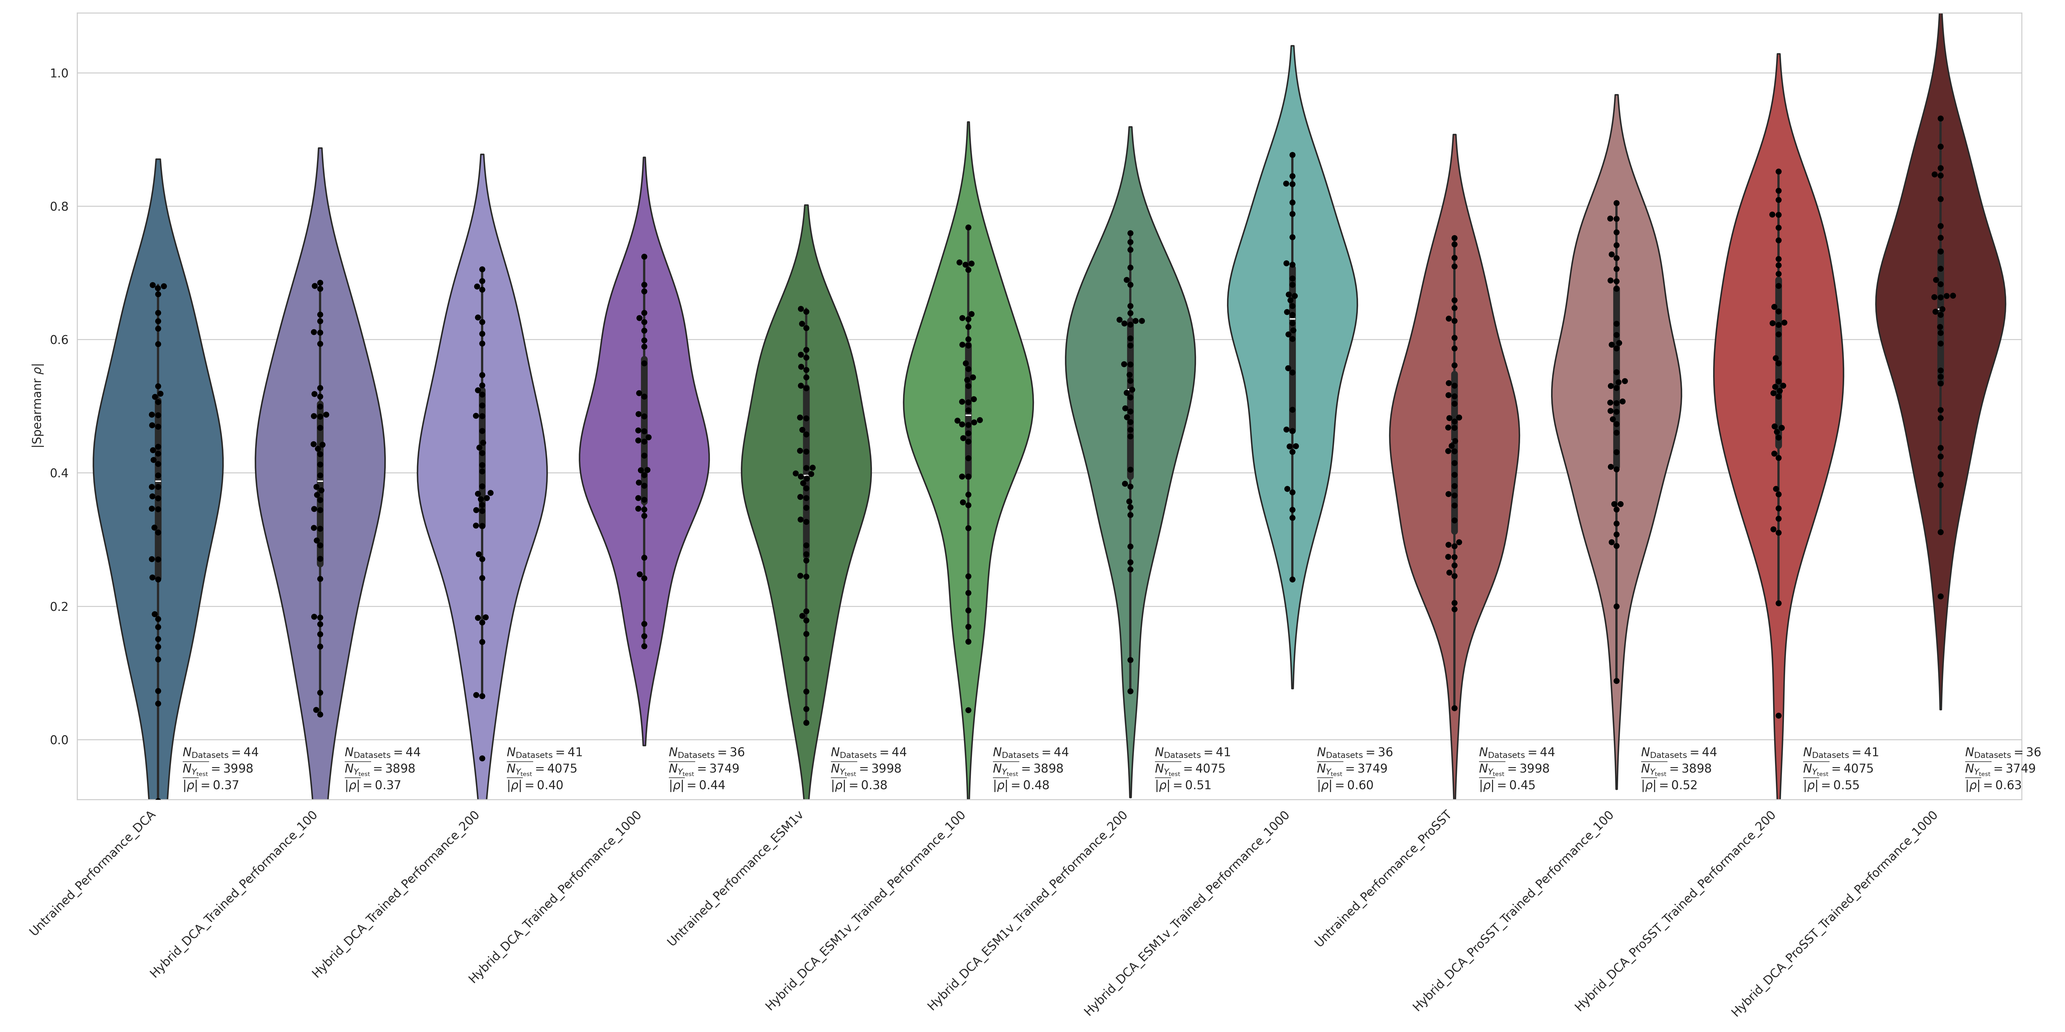
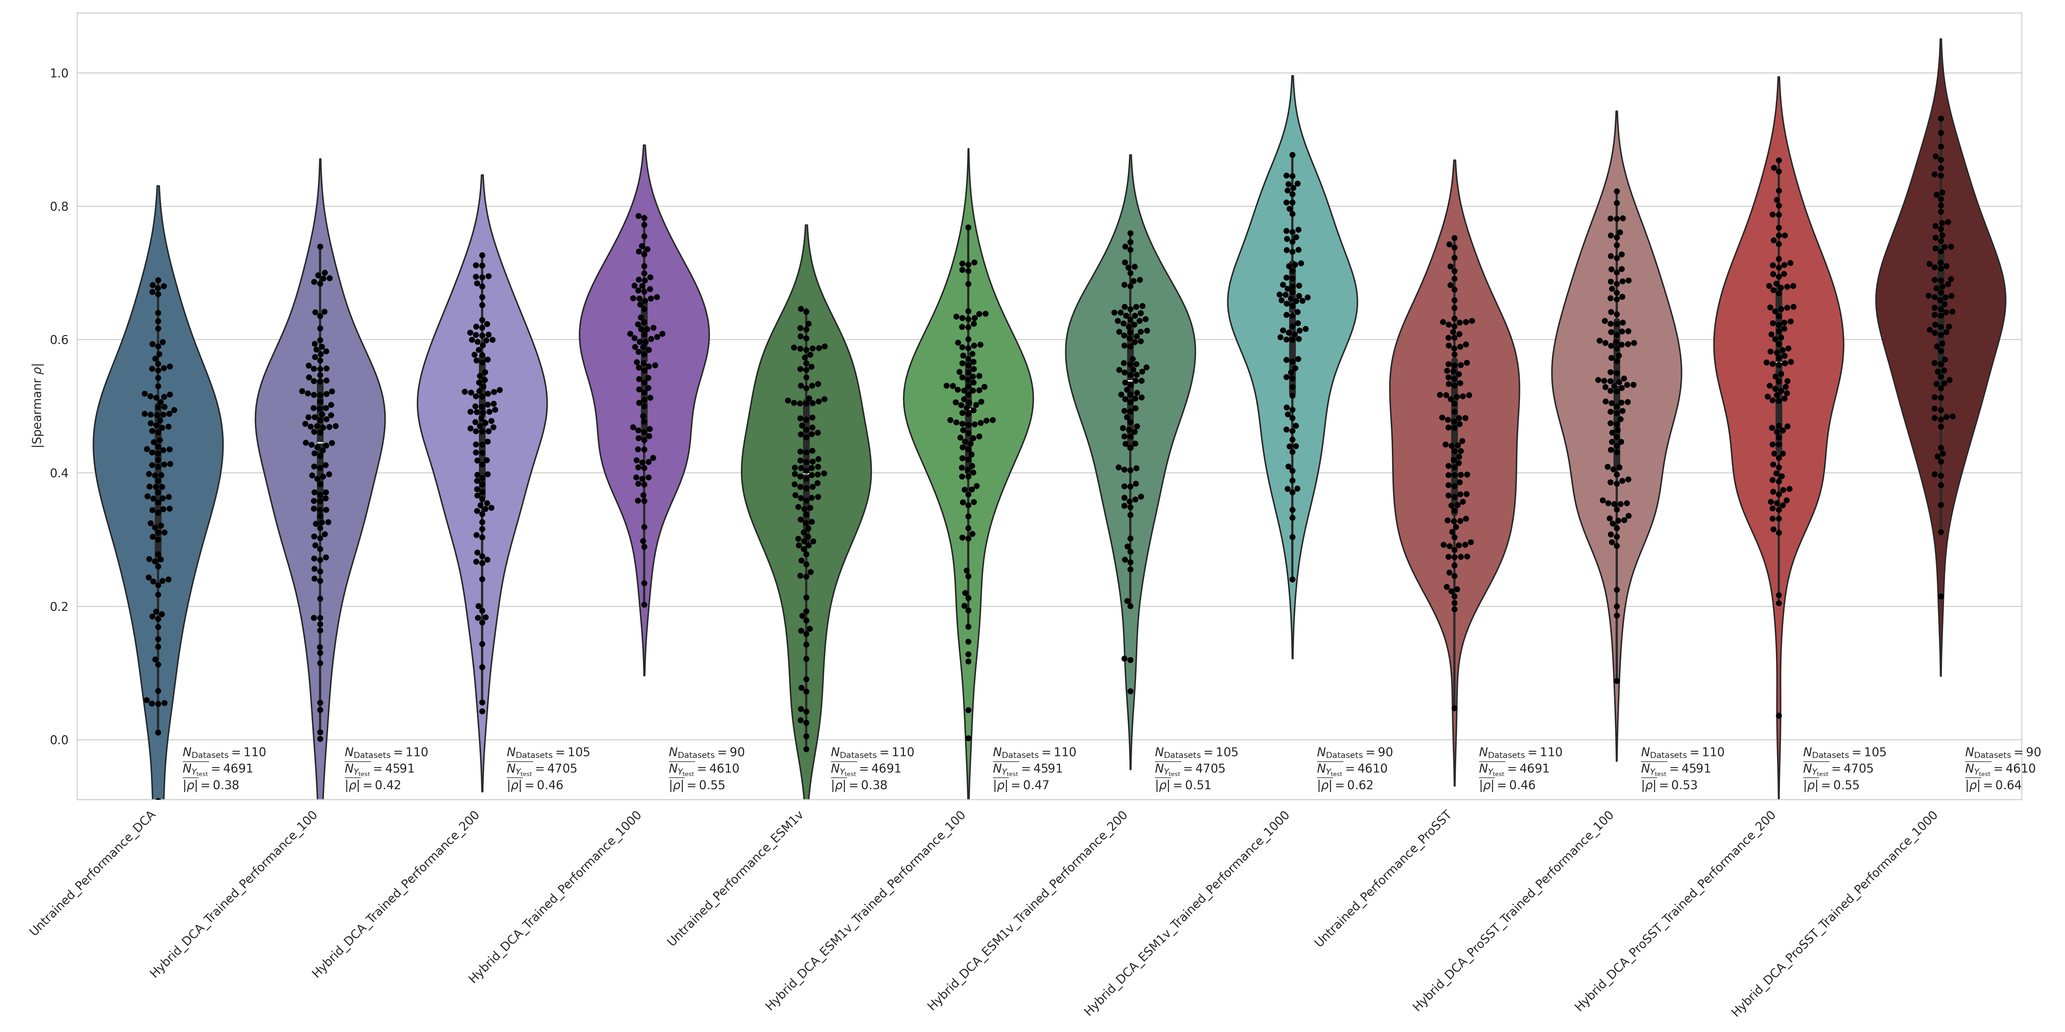
Results up to 120

diff --git a/scripts/ProteinGym_runs/run_performance_tests_proteingym_hybrid_dca_llm.py b/scripts/ProteinGym_runs/run_performance_tests_proteingym_hybrid_dca_llm.py
@@ -127,7 +127,7 @@ def compute_performances(mut_data, mut_sep=':', start_i: int = 0, already_tested
             ratio_input_vars_at_gaps = count_gap_variants / len(variants)
             pdb_seq = str(list(SeqIO.parse(pdb, "pdb-atom"))[0].seq)
             try:
-                assert wt_seq == pdb_seq
+                assert wt_seq == pdb_seq  # pdb_seq.startswith(wt_seq)
             except AssertionError:
                 print(
                     f"Wild-type sequence is not matching PDB-extracted sequence:"
@@ -135,7 +135,8 @@ def compute_performances(mut_data, mut_sep=':', start_i: int = 0, already_tested
                 )
                 with open(out_results_csv, 'a') as fh:
                     fh.write(
-                        f'{numbers_of_datasets[i]},{dset_key},{len(variants_orig)},{max_muts},PDBseq neq WTseq\n'
+                        f'{numbers_of_datasets[i]},{dset_key},{len(variants_orig)},'
+                        f'{max_muts},PDBseq neq WTseq\n'
                     )
                     continue
             
@@ -148,19 +149,29 @@ def compute_performances(mut_data, mut_sep=':', start_i: int = 0, already_tested
             dca_unopt_perf = spearmanr(fitnesses, y_pred_dca)[0]
 
             try:
-                x_esm, esm_attention_mask = esm_tokenize_sequences(sequences, esm_tokenizer, max_length=len(wt_seq))
-                y_esm = esm_infer(get_batches(x_esm, dtype=float, batch_size=1), esm_attention_mask, esm_base_model)
-                print(f'ESM1v (unsupervised performance): {spearmanr(fitnesses, y_esm.cpu())[0]:.3f}')
+                x_esm, esm_attention_mask = esm_tokenize_sequences(
+                    sequences, esm_tokenizer, max_length=len(wt_seq))
+                y_esm = esm_infer(
+                    get_batches(x_esm, dtype=float, batch_size=1), 
+                    esm_attention_mask, 
+                    esm_base_model
+                )
+                print(f'ESM1v (unsupervised performance): '
+                      f'{spearmanr(fitnesses, y_esm.cpu())[0]:.3f}')
                 esm_unopt_perf = spearmanr(fitnesses, y_esm.cpu())[0]
             except RuntimeError:
                 esm_unopt_perf = np.nan
 
             try:
-                input_ids, prosst_attention_mask, structure_input_ids = get_structure_quantizied(pdb, prosst_tokenizer, wt_seq)
+                input_ids, prosst_attention_mask, structure_input_ids = get_structure_quantizied(
+                    pdb, prosst_tokenizer, wt_seq)
                 x_prosst = prosst_tokenize_sequences(sequences=sequences, vocab=prosst_vocab)
                 y_prosst = get_logits_from_full_seqs(
-                        x_prosst, prosst_base_model, input_ids, prosst_attention_mask, structure_input_ids, train=False)
-                print(f'ProSST (unsupervised performance): {spearmanr(fitnesses, y_prosst.cpu())[0]:.3f}')
+                        x_prosst, prosst_base_model, input_ids, prosst_attention_mask, 
+                        structure_input_ids, train=False
+                )
+                print(f'ProSST (unsupervised performance): '
+                      f'{spearmanr(fitnesses, y_prosst.cpu())[0]:.3f}')
                 prosst_unopt_perf = spearmanr(fitnesses, y_prosst.cpu())[0]
             except RuntimeError:
                 prosst_unopt_perf = np.nan
@@ -304,80 +315,126 @@ def plot_csv_data(csv, plot_name):
     dset_hybrid_perfs_dca_prosst_1000 = df['Hybrid_DCA_ProSST_Trained_Performance_1000']
 
     plt.figure(figsize=(80, 12))
-    plt.plot(range(len(tested_dsets)), dset_dca_perfs, 'o--', markersize=8, color='tab:blue', label='DCA (0)')
-    plt.plot(range(len(tested_dsets) + 1), np.full(len(tested_dsets) + 1, np.nanmean(dset_dca_perfs)), color='tab:blue', linestyle='--')
-    for i, (p, n_test) in enumerate(zip(dset_dca_perfs, df['N_Y_test'].astype('Int64').to_list())):
+    plt.plot(range(len(tested_dsets)), dset_dca_perfs, 'o--', markersize=8, 
+             color='tab:blue', label='DCA (0)')
+    plt.plot(range(len(tested_dsets) + 1), np.full(len(tested_dsets) + 1, np.nanmean(dset_dca_perfs)), 
+             color='tab:blue', linestyle='--')
+    for i, (p, n_test) in enumerate(zip(
+        dset_dca_perfs, df['N_Y_test'].astype('Int64').to_list())):
         plt.text(i, 0.970, i, color='tab:blue', size=2)
         plt.text(i, 0.975, f'0'  + r'$\rightarrow$' + f'{n_test}', color='tab:blue', size=2)
-    train_test_size_texts.append(plt.text(len(tested_dsets), np.nanmean(dset_dca_perfs), f'{np.nanmean(dset_dca_perfs):.2f}', color='tab:blue'))
+    train_test_size_texts.append(plt.text(len(tested_dsets), np.nanmean(dset_dca_perfs), 
+                                          f'{np.nanmean(dset_dca_perfs):.2f}', color='tab:blue'))
 
-    plt.plot(range(len(tested_dsets)), dset_hybrid_perfs_dca_100, 'o--', markersize=8, color='slateblue', label='Hybrid (100)')
-    plt.plot(range(len(tested_dsets) + 1), np.full(len(tested_dsets) + 1, np.nanmean(dset_hybrid_perfs_dca_100)), color='slateblue', linestyle='--')
+    plt.plot(range(len(tested_dsets)), dset_hybrid_perfs_dca_100, 
+             'o--', markersize=8, color='slateblue', label='Hybrid (100)')
+    plt.plot(range(len(tested_dsets) + 1), np.full(len(tested_dsets) + 1, np.nanmean(dset_hybrid_perfs_dca_100)), 
+             color='slateblue', linestyle='--')
     for i, (p, n_test) in enumerate(zip(dset_hybrid_perfs_dca_100, df['N_Y_test_100'].astype('Int64').to_list())):
         plt.text(i, 0.985, f'100'  + r'$\rightarrow$' + f'{n_test}', color='slateblue', size=2)
-    train_test_size_texts.append(plt.text(len(tested_dsets), np.nanmean(dset_hybrid_perfs_dca_100), f'{np.nanmean(dset_hybrid_perfs_dca_100):.2f}', color='slateblue'))
+    train_test_size_texts.append(plt.text(len(tested_dsets), np.nanmean(dset_hybrid_perfs_dca_100), 
+                                          f'{np.nanmean(dset_hybrid_perfs_dca_100):.2f}', color='slateblue'))
 
-    plt.plot(range(len(tested_dsets)), dset_hybrid_perfs_dca_200, 'o--', markersize=8, color='mediumslateblue', label='Hybrid (200)')
-    plt.plot(range(len(tested_dsets) + 1), np.full(len(tested_dsets) + 1, np.nanmean(dset_hybrid_perfs_dca_200)), color='mediumslateblue', linestyle='--')
-    for i, (p, n_test) in enumerate(zip(dset_hybrid_perfs_dca_200, df['N_Y_test_200'].astype('Int64').to_list())):
+    plt.plot(range(len(tested_dsets)), dset_hybrid_perfs_dca_200, 
+             'o--', markersize=8, color='mediumslateblue', label='Hybrid (200)')
+    plt.plot(range(len(tested_dsets) + 1), np.full(len(tested_dsets) + 1, np.nanmean(dset_hybrid_perfs_dca_200)), 
+             color='mediumslateblue', linestyle='--')
+    for i, (p, n_test) in enumerate(zip(
+        dset_hybrid_perfs_dca_200, df['N_Y_test_200'].astype('Int64').to_list())):
        plt.text(i, 0.990, f'200'  + r'$\rightarrow$' + f'{n_test}', color='mediumslateblue', size=2)
-    train_test_size_texts.append(plt.text(len(tested_dsets), np.nanmean(dset_hybrid_perfs_dca_200), f'{np.nanmean(dset_hybrid_perfs_dca_200):.2f}', color='mediumslateblue'))
+    train_test_size_texts.append(plt.text(len(tested_dsets), np.nanmean(dset_hybrid_perfs_dca_200), 
+                                          f'{np.nanmean(dset_hybrid_perfs_dca_200):.2f}', color='mediumslateblue'))
 
-    plt.plot(range(len(tested_dsets)), dset_hybrid_perfs_dca_1000, 'o--', markersize=8, color='blueviolet',  label='Hybrid (1000)')
-    plt.plot(range(len(tested_dsets) + 1), np.full(len(tested_dsets) + 1, np.nanmean(dset_hybrid_perfs_dca_1000)), color='blueviolet', linestyle='--')
-    for i, (p, n_test) in enumerate(zip(dset_hybrid_perfs_dca_1000, df['N_Y_test_1000'].astype('Int64').to_list())):
+    plt.plot(range(len(tested_dsets)), dset_hybrid_perfs_dca_1000, 
+             'o--', markersize=8, color='blueviolet',  label='Hybrid (1000)')
+    plt.plot(range(len(tested_dsets) + 1), np.full(len(tested_dsets) + 1, np.nanmean(dset_hybrid_perfs_dca_1000)), 
+             color='blueviolet', linestyle='--')
+    for i, (p, n_test) in enumerate(zip(
+        dset_hybrid_perfs_dca_1000, df['N_Y_test_1000'].astype('Int64').to_list())):
         plt.text(i, 0.995, f'1000'  + r'$\rightarrow$' + f'{n_test}', color='blueviolet', size=2)
-    train_test_size_texts.append(plt.text(len(tested_dsets), np.nanmean(dset_hybrid_perfs_dca_1000), f'{np.nanmean(dset_hybrid_perfs_dca_1000):.2f}', color='blueviolet'))
+    train_test_size_texts.append(plt.text(len(tested_dsets), np.nanmean(dset_hybrid_perfs_dca_1000), 
+                                          f'{np.nanmean(dset_hybrid_perfs_dca_1000):.2f}', color='blueviolet'))
 
 
-    plt.plot(range(len(tested_dsets)), dset_esm_perfs, 'o--', markersize=8, color='tab:green', label='ESM (0)')
-    plt.plot(range(len(tested_dsets) + 1), np.full(len(tested_dsets) + 1, np.nanmean(dset_esm_perfs)), color='tab:green', linestyle='--')
+    plt.plot(range(len(tested_dsets)), dset_esm_perfs, 
+             'o--', markersize=8, color='tab:green', label='ESM (0)')
+    plt.plot(range(len(tested_dsets) + 1), np.full(len(tested_dsets) + 1, np.nanmean(dset_esm_perfs)), 
+             color='tab:green', linestyle='--')
     for i, (p, n_test) in enumerate(zip(dset_esm_perfs, df['N_Y_test'].astype('Int64').to_list())):
        plt.text(i, 0.980, f'0'  + r'$\rightarrow$' + f'{n_test}', color='tab:green', size=2)
-    train_test_size_texts.append(plt.text(len(tested_dsets), np.nanmean(dset_esm_perfs), f'{np.nanmean(dset_esm_perfs):.2f}', color='tab:green'))
+    train_test_size_texts.append(plt.text(len(tested_dsets), np.nanmean(dset_esm_perfs), 
+                                          f'{np.nanmean(dset_esm_perfs):.2f}', color='tab:green'))
 
-    plt.plot(range(len(tested_dsets)), dset_hybrid_perfs_dca_esm_100, 'o--', markersize=8, color='limegreen', label='Hybrid (100)')
-    plt.plot(range(len(tested_dsets) + 1), np.full(len(tested_dsets) + 1, np.nanmean(dset_hybrid_perfs_dca_esm_100)), color='limegreen', linestyle='--')
-    for i, (p, n_test) in enumerate(zip(dset_hybrid_perfs_dca_esm_100, df['N_Y_test_100'].astype('Int64').to_list())):
+    plt.plot(range(len(tested_dsets)), dset_hybrid_perfs_dca_esm_100, 
+             'o--', markersize=8, color='limegreen', label='Hybrid (100)')
+    plt.plot(range(len(tested_dsets) + 1), np.full(len(tested_dsets) + 1, np.nanmean(dset_hybrid_perfs_dca_esm_100)), 
+             color='limegreen', linestyle='--')
+    for i, (p, n_test) in enumerate(zip(
+        dset_hybrid_perfs_dca_esm_100, df['N_Y_test_100'].astype('Int64').to_list())):
         plt.text(i, 0.985, f'100'  + r'$\rightarrow$' + f'{n_test}', color='limegreen', size=2)
-    train_test_size_texts.append(plt.text(len(tested_dsets), np.nanmean(dset_hybrid_perfs_dca_esm_100), f'{np.nanmean(dset_hybrid_perfs_dca_esm_100):.2f}', color='limegreen'))
+    train_test_size_texts.append(plt.text(len(tested_dsets), np.nanmean(dset_hybrid_perfs_dca_esm_100), 
+                                          f'{np.nanmean(dset_hybrid_perfs_dca_esm_100):.2f}', color='limegreen'))
 
-    plt.plot(range(len(tested_dsets)), dset_hybrid_perfs_dca_esm_200, 'o--', markersize=8, color='mediumseagreen', label='Hybrid (200)')
-    plt.plot(range(len(tested_dsets) + 1), np.full(len(tested_dsets) + 1, np.nanmean(dset_hybrid_perfs_dca_esm_200)), color='mediumseagreen', linestyle='--')
-    for i, (p, n_test) in enumerate(zip(dset_hybrid_perfs_dca_esm_200, df['N_Y_test_200'].astype('Int64').to_list())):
+    plt.plot(range(len(tested_dsets)), dset_hybrid_perfs_dca_esm_200, 
+             'o--', markersize=8, color='mediumseagreen', label='Hybrid (200)')
+    plt.plot(range(len(tested_dsets) + 1), np.full(len(tested_dsets) + 1, np.nanmean(dset_hybrid_perfs_dca_esm_200)), 
+             color='mediumseagreen', linestyle='--')
+    for i, (p, n_test) in enumerate(zip(
+        dset_hybrid_perfs_dca_esm_200, df['N_Y_test_200'].astype('Int64').to_list())):
        plt.text(i, 0.990, f'200'  + r'$\rightarrow$' + f'{n_test}', color='mediumseagreen', size=2)
-    train_test_size_texts.append(plt.text(len(tested_dsets), np.nanmean(dset_hybrid_perfs_dca_esm_200), f'{np.nanmean(dset_hybrid_perfs_dca_esm_200):.2f}', color='mediumseagreen'))
+    train_test_size_texts.append(plt.text(len(tested_dsets), np.nanmean(dset_hybrid_perfs_dca_esm_200), 
+                                          f'{np.nanmean(dset_hybrid_perfs_dca_esm_200):.2f}', color='mediumseagreen'))
 
-    plt.plot(range(len(tested_dsets)), dset_hybrid_perfs_dca_esm_1000, 'o--', markersize=8, color='turquoise',  label='Hybrid (1000)')
-    plt.plot(range(len(tested_dsets) + 1), np.full(len(tested_dsets) + 1, np.nanmean(dset_hybrid_perfs_dca_esm_1000)), color='turquoise', linestyle='--')
-    for i, (p, n_test) in enumerate(zip(dset_hybrid_perfs_dca_esm_1000, df['N_Y_test_1000'].astype('Int64').to_list())):
+    plt.plot(range(len(tested_dsets)), dset_hybrid_perfs_dca_esm_1000, 
+             'o--', markersize=8, color='turquoise',  label='Hybrid (1000)')
+    plt.plot(range(len(tested_dsets) + 1), np.full(len(tested_dsets) + 1, np.nanmean(dset_hybrid_perfs_dca_esm_1000)), 
+             color='turquoise', linestyle='--')
+    for i, (p, n_test) in enumerate(zip(
+        dset_hybrid_perfs_dca_esm_1000, df['N_Y_test_1000'].astype('Int64').to_list())):
         plt.text(i, 0.995, f'1000'  + r'$\rightarrow$' + f'{n_test}', color='turquoise', size=2)
-    train_test_size_texts.append(plt.text(len(tested_dsets), np.nanmean(dset_hybrid_perfs_dca_esm_1000), f'{np.nanmean(dset_hybrid_perfs_dca_esm_1000):.2f}', color='turquoise'))
+    train_test_size_texts.append(plt.text(len(tested_dsets), np.nanmean(dset_hybrid_perfs_dca_esm_1000), 
+                                          f'{np.nanmean(dset_hybrid_perfs_dca_esm_1000):.2f}', color='turquoise'))
 
 
-    plt.plot(range(len(tested_dsets)), dset_prosst_perfs, 'o--', markersize=8, color='tab:red', label='ProSST (0)')
-    plt.plot(range(len(tested_dsets) + 1), np.full(len(tested_dsets) + 1, np.nanmean(dset_prosst_perfs)), color='tab:red', linestyle='--')
-    for i, (p, n_test) in enumerate(zip(dset_prosst_perfs, df['N_Y_test'].astype('Int64').to_list())):
+    plt.plot(range(len(tested_dsets)), dset_prosst_perfs, 
+             'o--', markersize=8, color='tab:red', label='ProSST (0)')
+    plt.plot(range(len(tested_dsets) + 1), np.full(len(tested_dsets) + 1, np.nanmean(dset_prosst_perfs)), 
+             color='tab:red', linestyle='--')
+    for i, (p, n_test) in enumerate(zip(
+        dset_prosst_perfs, df['N_Y_test'].astype('Int64').to_list())):
        plt.text(i, 0.980, f'0'  + r'$\rightarrow$' + f'{n_test}', color='tab:red', size=2)
-    train_test_size_texts.append(plt.text(len(tested_dsets), np.nanmean(dset_prosst_perfs), f'{np.nanmean(dset_prosst_perfs):.2f}', color='tab:red'))
+    train_test_size_texts.append(plt.text(len(tested_dsets), np.nanmean(dset_prosst_perfs), 
+                                          f'{np.nanmean(dset_prosst_perfs):.2f}', color='tab:red'))
 
-    plt.plot(range(len(tested_dsets)), dset_hybrid_perfs_dca_prosst_100, 'o--', markersize=8, color='indianred', label='Hybrid (100)')
-    plt.plot(range(len(tested_dsets) + 1), np.full(len(tested_dsets) + 1, np.nanmean(dset_hybrid_perfs_dca_prosst_100)), color='indianred', linestyle='--')
-    for i, (p, n_test) in enumerate(zip(dset_hybrid_perfs_dca_prosst_100, df['N_Y_test_100'].astype('Int64').to_list())):
+    plt.plot(range(len(tested_dsets)), dset_hybrid_perfs_dca_prosst_100, 
+             'o--', markersize=8, color='indianred', label='Hybrid (100)')
+    plt.plot(range(len(tested_dsets) + 1), np.full(len(tested_dsets) + 1, np.nanmean(dset_hybrid_perfs_dca_prosst_100)), 
+             color='indianred', linestyle='--')
+    for i, (p, n_test) in enumerate(zip(
+        dset_hybrid_perfs_dca_prosst_100, df['N_Y_test_100'].astype('Int64').to_list())):
         plt.text(i, 0.985, f'100'  + r'$\rightarrow$' + f'{n_test}', color='indianred', size=2)
-    train_test_size_texts.append(plt.text(len(tested_dsets), np.nanmean(dset_hybrid_perfs_dca_prosst_100), f'{np.nanmean(dset_hybrid_perfs_dca_prosst_100):.2f}', color='indianred'))
+    train_test_size_texts.append(plt.text(len(tested_dsets), np.nanmean(dset_hybrid_perfs_dca_prosst_100), 
+                                          f'{np.nanmean(dset_hybrid_perfs_dca_prosst_100):.2f}', color='indianred'))
 
-    plt.plot(range(len(tested_dsets)), dset_hybrid_perfs_dca_prosst_200, 'o--', markersize=8, color='red', label='Hybrid (200)')
-    plt.plot(range(len(tested_dsets) + 1), np.full(len(tested_dsets) + 1, np.nanmean(dset_hybrid_perfs_dca_prosst_200)), color='red', linestyle='--')
-    for i, (p, n_test) in enumerate(zip(dset_hybrid_perfs_dca_prosst_200, df['N_Y_test_200'].astype('Int64').to_list())):
+    plt.plot(range(len(tested_dsets)), dset_hybrid_perfs_dca_prosst_200, 
+             'o--', markersize=8, color='red', label='Hybrid (200)')
+    plt.plot(range(len(tested_dsets) + 1), np.full(len(tested_dsets) + 1, np.nanmean(dset_hybrid_perfs_dca_prosst_200)), 
+             color='red', linestyle='--')
+    for i, (p, n_test) in enumerate(zip(
+        dset_hybrid_perfs_dca_prosst_200, df['N_Y_test_200'].astype('Int64').to_list())):
        plt.text(i, 0.990, f'200'  + r'$\rightarrow$' + f'{n_test}', color='red', size=2)
-    train_test_size_texts.append(plt.text(len(tested_dsets), np.nanmean(dset_hybrid_perfs_dca_prosst_200), f'{np.nanmean(dset_hybrid_perfs_dca_prosst_200):.2f}', color='red'))
+    train_test_size_texts.append(plt.text(len(tested_dsets), np.nanmean(dset_hybrid_perfs_dca_prosst_200), 
+                                          f'{np.nanmean(dset_hybrid_perfs_dca_prosst_200):.2f}', color='red'))
 
-    plt.plot(range(len(tested_dsets)), dset_hybrid_perfs_dca_prosst_1000, 'o--', markersize=8, color='darkred',  label='Hybrid (1000)')
-    plt.plot(range(len(tested_dsets) + 1), np.full(len(tested_dsets) + 1, np.nanmean(dset_hybrid_perfs_dca_prosst_1000)), color='darkred', linestyle='--')
-    for i, (p, n_test) in enumerate(zip(dset_hybrid_perfs_dca_prosst_1000, df['N_Y_test_1000'].astype('Int64').to_list())):
+    plt.plot(range(len(tested_dsets)), dset_hybrid_perfs_dca_prosst_1000, 
+             'o--', markersize=8, color='darkred',  label='Hybrid (1000)')
+    plt.plot(range(len(tested_dsets) + 1), np.full(len(tested_dsets) + 1, np.nanmean(dset_hybrid_perfs_dca_prosst_1000)), 
+             color='darkred', linestyle='--')
+    for i, (p, n_test) in enumerate(zip(
+        dset_hybrid_perfs_dca_prosst_1000, df['N_Y_test_1000'].astype('Int64').to_list())):
         plt.text(i, 0.995, f'1000'  + r'$\rightarrow$' + f'{n_test}', color='darkred', size=2)
-    train_test_size_texts.append(plt.text(len(tested_dsets), np.nanmean(dset_hybrid_perfs_dca_prosst_1000), f'{np.nanmean(dset_hybrid_perfs_dca_prosst_1000):.2f}', color='darkred'))
+    train_test_size_texts.append(plt.text(len(tested_dsets), np.nanmean(dset_hybrid_perfs_dca_prosst_1000), 
+                                          f'{np.nanmean(dset_hybrid_perfs_dca_prosst_1000):.2f}', color='darkred'))
 
 
     plt.grid(zorder=-1)
@@ -498,7 +555,8 @@ if __name__ == '__main__':
         for i in already_tested_is:
             print(f'{i + 1} {list(combined_mut_data.keys())[i]}')
         try:
-            print(f'\nContinuing getting model performances at {start_i + 1} {list(combined_mut_data.keys())[start_i]} '
+            print(f'\nContinuing getting model performances at {start_i + 1} '
+                  f'{list(combined_mut_data.keys())[start_i]} '
                   f'(last tested dataset: {start_i}, {list(combined_mut_data.keys())[start_i - 1]})')
         except IndexError:
             print('\nComputed all results already?!')
@@ -506,10 +564,12 @@ if __name__ == '__main__':
         with open(out_results_csv, 'w') as fh:
             print(f'\nCreating new file {out_results_csv}...')
             fh.write(
-                f'No.,Dataset,N_Variants,N_Max_Muts,Untrained_Performance_DCA,Untrained_Performance_ESM1v,Untrained_Performance_ProSST,'
-                f'Hybrid_DCA_Trained_Performance_100,Hybrid_DCA_ESM1v_Trained_Performance_100,Hybrid_DCA_ProSST_Trained_Performance_100,'
-                f'Hybrid_DCA_Trained_Performance_200,Hybrid_DCA_ESM1v_Trained_Performance_200,Hybrid_DCA_ProSST_Trained_Performance_200,'
-                f'Hybrid_DCA_Trained_Performance_1000,Hybrid_DCA_ESM1v_Trained_Performance_1000,Hybrid_DCA_ProSST_Trained_Performance_1000,'
+                f'No.,Dataset,N_Variants,N_Max_Muts,Untrained_Performance_DCA,Untrained_Performance_ESM1v,'
+                f'Untrained_Performance_ProSST,Hybrid_DCA_Trained_Performance_100,'
+                f'Hybrid_DCA_ESM1v_Trained_Performance_100,Hybrid_DCA_ProSST_Trained_Performance_100,'
+                f'Hybrid_DCA_Trained_Performance_200,Hybrid_DCA_ESM1v_Trained_Performance_200,'
+                f'Hybrid_DCA_ProSST_Trained_Performance_200,Hybrid_DCA_Trained_Performance_1000,'
+                f'Hybrid_DCA_ESM1v_Trained_Performance_1000,Hybrid_DCA_ProSST_Trained_Performance_1000,'
                 f'N_Y_test,N_Y_test_100,N_Y_test_200,N_Y_test_1000,Time_in_s\n'
             )
             start_i = 0
